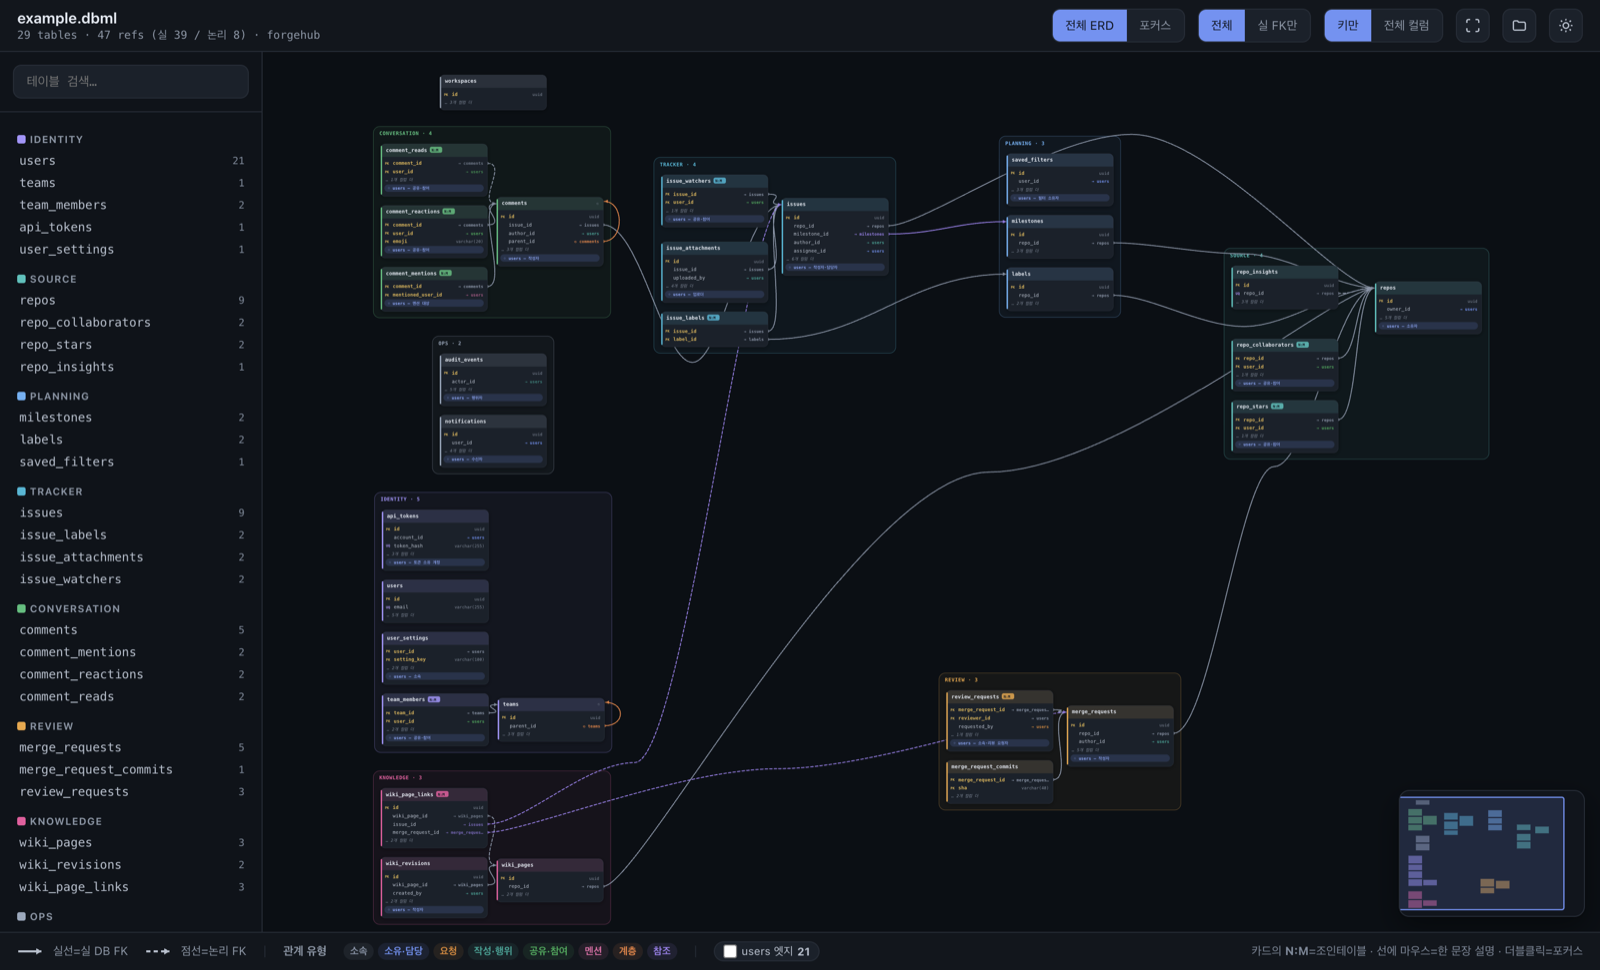
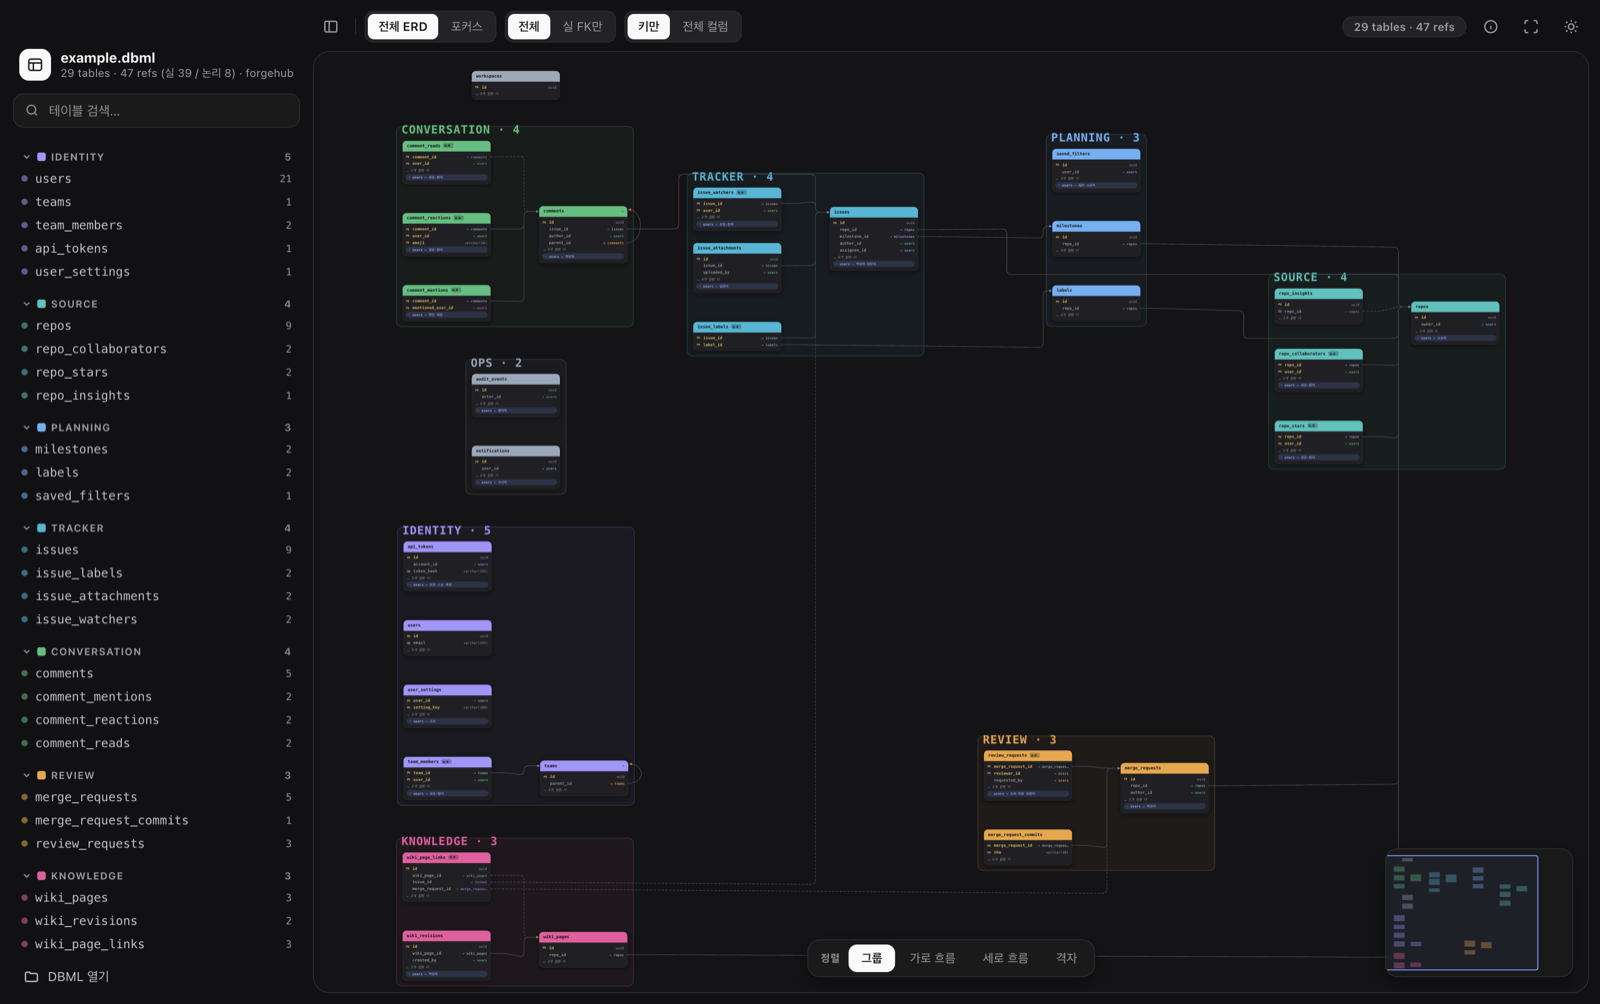
docs: README 갱신

diff --git a/README.md b/README.md
@@ -20,7 +20,9 @@ schema-lens addresses this in three ways:
 - **Semantic edge classification** — every foreign key is typed as one of eight
   relationship kinds (composition, ownership, request, authorship, sharing, mention,
   hierarchy, reference), inferred from column-name patterns, `ON DELETE` rules, and
-  PK membership. Each type gets its own color and a one-sentence explanation on hover.
+  PK membership. Edges stay neutral gray until you hover or select — then the
+  relationship's color and a one-sentence explanation appear, so the diagram reads
+  calmly at rest but explains itself on demand.
 - **Hub folding** — when most inbound edges of a high-degree table are
   person-references (the `users` table in almost every schema), those edges are
   hidden by default and summarized as compact chips on each card. What remains
@@ -32,10 +34,15 @@ schema-lens addresses this in three ways:
 ## Features
 
 **Full ERD view**
-- Automatic layout clustered by `TableGroup` (elkjs layered algorithm)
+- Four arrangement modes on a floating bar at the bottom of the map: **group clusters**
+  (elkjs compound layout per `TableGroup`), **left→right flow**, **top→down flow**
+  (reference-direction layers), and **grid**. The chosen mode persists per file.
+- Table cards use solid group-color headers (dbdiagram-style); group hulls appear in
+  group mode, and every group is a collapsible section in the sidebar
 - Solid lines for enforced FK constraints, dashed for logical (application-level) FKs
 - Cardinality (`1:1` / `N:1` / `N:M`) shown on edge hover and in tooltips; junction tables detected and badged `N:M`
-- Click = 1-hop highlight · double-click = focus mode · `0` = fit to screen · `Esc` = deselect
+- Legend and per-hub edge toggles live in a popover behind the toolbar ⓘ button
+- Click = 1-hop highlight · double-click = focus mode · `0` = fit to screen · `Esc` = deselect · `/` = search
 - Wheel = pan, `⌘`/`Ctrl` + wheel = zoom · drag tables, or drag a group hull to move the whole cluster
 - Layout edits persist per file (`View > Reset Layout` to discard)
 - Minimap with viewport indicator — click or drag it to jump
@@ -43,7 +50,11 @@ schema-lens addresses this in three ways:
 **Focus mode**
 - Three-column view of a single table: referencing tables on the left (the N side),
   the focused table in the middle, referenced parents on the right (the 1 side)
-- Click any neighbor to refocus; navigation history with back button
+- One wire per relationship, anchored to the actual FK column row; hovering a wire,
+  column row, or neighbor card cross-highlights the other two
+- The keys-only / all-columns toggle applies here too
+- Click any neighbor to refocus; junction tables get a one-click shortcut to the far
+  side; navigation history with a breadcrumb in the toolbar
 
 <picture>
   <source media="(prefers-color-scheme: dark)" srcset="docs/focus-dark.png">
@@ -54,7 +65,10 @@ schema-lens addresses this in three ways:
 - Open via `⌘`/`Ctrl`+`O`, drag & drop, or CLI argument; the last file is restored on launch
 - The open file is watched — edits re-parse and re-render automatically
   (survives editors that replace the file on save)
-- Light and dark themes; the full palette is contrast-checked (WCAG AA) in both
+- Light and dark themes; the full palette — including card headers and canvas
+  surfaces — is contrast-checked (WCAG AA) in both
+- On macOS the window is frameless: traffic lights sit on the sidebar and the top
+  strip drags the window
 
 ## Getting started
 
@@ -87,11 +101,13 @@ Standard DBML works out of the box. A few conventions make the diagram more prec
 Renders, captures, and exits without interaction — useful for visual regression checks:
 
 ```bash
-npx electron . <file> --screenshot out.png [--focus TABLE] [--theme light|dark]
+npx electron . <file> --screenshot out.png [--focus TABLE] [--theme light|dark] \
+  [--side open|closed] [--layout group|lr|tb|grid]
 ```
 
-On parse failure it captures the error screen and exits with code 2. `--focus` and
-`--theme` apply to that run only; they don't touch saved preferences.
+On parse failure it captures the error screen and exits with code 2. `--focus`,
+`--theme`, and `--side` apply to that run only; `--layout` behaves like clicking the
+arrangement bar, so the chosen mode is saved for that file.
 
 ## Architecture
 
